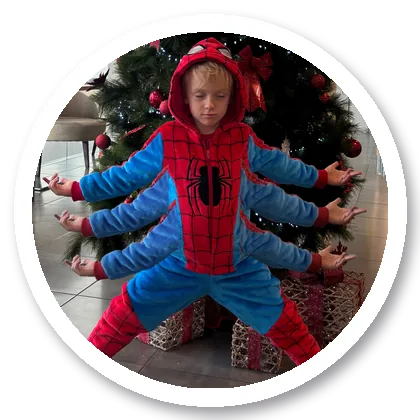
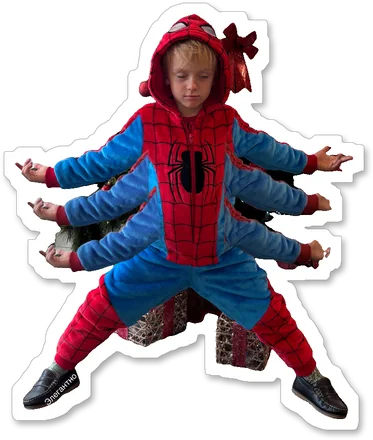
Стикеры как в Telegram: вырезаны по контуру с белой обводкой, 25 штук
Claude-Session: https://claude.ai/code/session_01BQN7vp1YMynbd4keLDUdRK

diff --git a/config.js b/config.js
@@ -11,23 +11,36 @@ window.GAME = {
 
   // Стикеры (вырезаны из фото, лежат в photos/stickers)
   stickers: {
-    coffee:  { img: "photos/stickers/coffee.webp",  cap: "без кофе не разговариваю ☕" },
-    serious: { img: "photos/stickers/serious.webp", cap: "когда спросили, что на ужин" },
-    aaa:     { img: "photos/stickers/aaa.webp",     cap: "АААА 😱" },
-    cat:     { img: "photos/stickers/cat.webp",     cap: "кот не одобряет 😾" },
-    monday:  { img: "photos/stickers/monday.webp",  cap: "понедельник 😩" },
-    ski:     { img: "photos/stickers/ski.webp",     cap: "снежная королева ❄" },
-    dino:    { img: "photos/stickers/dino.webp",    cap: "жую 🦖" },
-    fox:     { img: "photos/stickers/fox.webp",     cap: "лис-разбойник 🦊" },
-    spider:  { img: "photos/stickers/spider.webp",  cap: "элегантно 🕷" },
-    hug:     { img: "photos/stickers/hug.webp",     cap: "обнимашки 🤗" },
-    art:     { img: "photos/stickers/art.webp",     cap: "искусствовед 🖼" },
-    turbo:   { img: "photos/stickers/turbo.webp",   cap: "турбо-режим ⚡" },
+    coffee:       { img: "photos/stickers/coffee.webp",       cap: "без кофе не разговариваю ☕" },
+    serious:      { img: "photos/stickers/serious.webp",      cap: "когда спросили, что на ужин" },
+    sideeye:      { img: "photos/stickers/sideeye.webp",      cap: "мама подозревает 👀" },
+    paci:         { img: "photos/stickers/paci.webp",         cap: "соска-режим 🍼" },
+    aaa:          { img: "photos/stickers/aaa.webp",          cap: "АААА 😱" },
+    cat:          { img: "photos/stickers/cat.webp",          cap: "кот не одобряет 😾" },
+    wow:          { img: "photos/stickers/wow.webp",          cap: "ЧТО?! 😮" },
+    what:         { img: "photos/stickers/what.webp",         cap: "чё надо? 🤨" },
+    monday:       { img: "photos/stickers/monday.webp",       cap: "понедельник 😩" },
+    ski:          { img: "photos/stickers/ski.webp",          cap: "снежная королева ❄" },
+    cheeks:       { img: "photos/stickers/cheeks.webp",       cap: "щёчки 😴" },
+    notimpressed: { img: "photos/stickers/notimpressed.webp", cap: "не впечатлена 😒" },
+    dino:         { img: "photos/stickers/dino.webp",         cap: "жую 🦖" },
+    fox:          { img: "photos/stickers/fox.webp",          cap: "лис-разбойник 🦊" },
+    fist:         { img: "photos/stickers/fist.webp",         cap: "вкусный кулачок 👊" },
+    spa:          { img: "photos/stickers/spa.webp",          cap: "SPA-день 🧖" },
+    spider:       { img: "photos/stickers/spider.webp",       cap: "элегантно 🕷" },
+    spidey:       { img: "photos/stickers/spidey.webp",       cap: "дружелюбный сосед 🕸" },
+    siblings:     { img: "photos/stickers/siblings.webp",     cap: "братик и сестрёнка 💞" },
+    run:          { img: "photos/stickers/run.webp",          cap: "погнали! ⚽" },
+    art:          { img: "photos/stickers/art.webp",          cap: "искусствовед 🖼" },
+    turbo:        { img: "photos/stickers/turbo.webp",        cap: "турбо-режим ⚡" },
+    witch:        { img: "photos/stickers/witch.webp",        cap: "ведьма и Белоснежка 🧙♀" },
+    halloween:    { img: "photos/stickers/halloween.webp",    cap: "хэллоуин-банда 🎃" },
+    grumpy2:      { img: "photos/stickers/grumpy2.webp",      cap: "два недовольных 😐" },
   },
   // стикеры, которые выскакивают сбоку в викторине
   reactions: {
-    right: ["aaa", "ski", "hug", "spider", "turbo"],
-    wrong: ["cat", "monday", "serious"],
+    right: ["aaa", "wow", "ski", "spider", "siblings", "run", "cheeks"],
+    wrong: ["cat", "monday", "serious", "what", "notimpressed", "grumpy2", "sideeye"],
   },
 
   // мем-подписи
@@ -63,7 +76,7 @@ window.GAME = {
       zoom: { x: 50, y: 50, scale: 6 },
       hint: "Кофе ☕",
       sticker: "coffee",
-      stickers: ["coffee", "serious"],
+      stickers: ["coffee", "serious", "sideeye", "paci"],
       achievement: "Кофейный детектив ☕",
       foundTitle: "Первый тайник найден!",
       foundText: "Разминка пройдена. А теперь проверим, насколько хорошо ты знаешь нас…",
@@ -114,7 +127,7 @@ window.GAME = {
         },
       ],
       achievement: "Знаток нас 🧠",
-      stickers: ["aaa", "cat"],
+      stickers: ["aaa", "cat", "wow", "what"],
       foundTitle: "Ты знаешь нас на 100%!",
       foundText: "Следующий уровень: проверим, насколько хорошо ты знаешь свою семью в лицо 👀",
       reward: 8,
@@ -156,7 +169,7 @@ window.GAME = {
         },
       ],
       achievement: "Глаз-алмаз 👁",
-      stickers: ["monday", "ski"],
+      stickers: ["monday", "ski", "cheeks", "notimpressed"],
       foundTitle: "Глаз-алмаз!",
       foundText: "Всех узнала. Награда — подсказка к первому подарку 🎁",
       reward: 4,
@@ -175,7 +188,7 @@ window.GAME = {
       zoom: { x: 50, y: 50, scale: 6 },
       hint: "Шкаф Данилы 👕",
       sticker: "fox",
-      stickers: ["dino", "fox"],
+      stickers: ["dino", "fox", "fist", "spa"],
       achievement: "Шкафолог 👕",
       foundTitle: "🎁 Подарок №1 найден!",
       foundText: "Открывай! А потом возвращайся — квест ещё не закончен.",
@@ -193,8 +206,8 @@ window.GAME = {
         "Он ниже меня ростом, носит шлем как настоящий гонщик и рисует лучше всех. " +
         "Найди его и скажи пароль: «Я тебя люблю!»",
       hint: "Это Данила 😊",
-      sticker: "spider",
-      stickers: ["spider", "hug"],
+      sticker: "spidey",
+      stickers: ["spider", "spidey", "siblings", "run"],
       achievement: "Мама года 🎨",
       foundTitle: "🎨 Подарок №2 — от Данилы!",
       foundText: "Он рисовал это специально для тебя. Обними художника покрепче!",
@@ -215,8 +228,8 @@ window.GAME = {
       photo: "photos/places/krovat.jpg",
       zoom: { x: 50, y: 50, scale: 6 },
       hint: "Кровать 🛏",
-      sticker: "turbo",
-      stickers: ["art", "turbo"],
+      sticker: "witch",
+      stickers: ["art", "turbo", "witch", "halloween", "grumpy2"],
       achievement: "Легенда квеста 👑",
       foundTitle: "🎁 Главный подарок!",
       foundText: "Ты прошла весь квест. Открывай, а потом листай вниз…",

diff --git a/index.html b/index.html
@@ -155,15 +155,15 @@
   #confetti{position:fixed;inset:0;pointer-events:none;z-index:49}
   /* stickers */
   .stk{position:relative;display:inline-flex;flex-direction:column;align-items:center}
-  .stk img{width:100%;display:block}
-  .stk .cap{margin-top:-14px;background:var(--ink);color:#fff;font:800 11px/1.25 Unbounded,sans-serif;padding:5px 9px;border-radius:12px;text-align:center;transform:rotate(-3deg);position:relative;z-index:1;max-width:112%}
+  .stk img{width:100%;aspect-ratio:1/1;object-fit:contain;display:block}
+  .stk .cap{margin-top:-6px;background:var(--ink);color:#fff;font:800 11px/1.25 Unbounded,sans-serif;padding:5px 9px;border-radius:12px;text-align:center;transform:rotate(-3deg);position:relative;z-index:1;max-width:112%}
   .stgrid .cap{font-size:9.5px;padding:4px 7px}
   .titlerow{position:relative;padding-right:100px;min-height:96px}
   .peel .cap{display:none}
   .peel{position:absolute;right:-4px;top:-4px;width:92px;z-index:3;animation:bob 3s ease-in-out infinite;--rot:9deg}
-  .newst{display:flex;justify-content:center;gap:14px;margin:6px 0 4px}
-  .newst .stk{width:136px;animation:slap .6s cubic-bezier(.3,1.6,.5,1) both}
-  .newst .stk:nth-child(2){animation-delay:.3s}
+  .newst{display:flex;flex-wrap:wrap;justify-content:center;gap:12px 10px;margin:6px 0 4px}
+  .newst .stk{width:124px;animation:slap .6s cubic-bezier(.3,1.6,.5,1) both}
+  .newst .stk:nth-child(2){animation-delay:.25s} .newst .stk:nth-child(3){animation-delay:.5s} .newst .stk:nth-child(4){animation-delay:.75s} .newst .stk:nth-child(5){animation-delay:1s}
   @keyframes slap{0%{transform:scale(2.4) rotate(-30deg);opacity:0}100%{transform:scale(1) rotate(var(--rot,-6deg));opacity:1}}
   .stgrid{display:grid;grid-template-columns:repeat(3,minmax(0,1fr));gap:10px 8px}
   .stgrid .stk{width:100%}
@@ -406,7 +406,7 @@
 
   function renderIntro(st){
     app.innerHTML='<div class="screen">'+
-      '<div class="stickers"><div class="st ph" style="left:-2%;top:-6px;--rot:-12deg">'+stkImg("coffee")+'</div><div class="st" style="right:0;top:6px;--rot:8deg;background:var(--lime)">это база</div>'+
+      '<div class="stickers"><div class="st ph" style="left:-2%;top:-6px;--rot:-12deg">'+stkImg("paci")+'</div><div class="st" style="right:0;top:6px;--rot:8deg;background:var(--lime)">это база</div>'+
       '<div class="st ph" style="right:-2%;top:140px;--rot:10deg;animation-delay:.5s">'+stkImg("spider")+'</div><div class="st" style="left:0;top:160px;--rot:-7deg;background:var(--lav);animation-delay:.8s">slay 💅</div></div>'+
       '<div class="big35">'+G.age+'</div>'+
       '<h1 class="center">'+titleHTML(st.title)+'</h1>'+
@@ -489,7 +489,7 @@
       '<span class="meme">'+esc(pick(G.memes.success))+'</span>'+
       '<h1 class="center">'+titleHTML(st.foundTitle)+'</h1>'+
       '<p class="center">'+esc(st.foundText)+'</p>'+
-      (S.newSt&&S.newSt.length?'<div class="center"><span class="chip">+'+S.newSt.length+' СТИКЕРА В КОЛЛЕКЦИЮ 🧩</span></div><div class="newst">'+S.newSt.map(function(k,i){return stkHTML(k,"--rot:"+(i?7:-6)+"deg");}).join("")+'</div>':"")+
+      (S.newSt&&S.newSt.length?'<div class="center"><span class="chip">+'+S.newSt.length+' СТИКЕРОВ В КОЛЛЕКЦИЮ 🧩</span></div><div class="newst">'+S.newSt.map(function(k,i){return stkHTML(k,"--rot:"+(i%2?7:-6)+"deg");}).join("")+'</div>':"")+
       (st.foundPhoto?'<div class="pol polone"><img src="'+esc(st.foundPhoto)+'" alt=""><div>'+esc(st.foundPhotoCaption||"")+'</div></div>':"")+
       (to>S.newFrom?'<div class="card"><span class="label">+'+(to-S.newFrom)+' ПРИЧИН ❤</span><ul class="reasons">'+reasonsHTML(S.newFrom,to,false,S.newFrom)+'</ul></div>':"")+
       '<button class="btn lime" id="nextBtn">Дальше →</button></div>';

diff --git a/preview/karina35.html b/preview/karina35.html
@@ -150,15 +150,15 @@
   #confetti{position:fixed;inset:0;pointer-events:none;z-index:49}
   /* stickers */
   .stk{position:relative;display:inline-flex;flex-direction:column;align-items:center}
-  .stk img{width:100%;display:block}
-  .stk .cap{margin-top:-14px;background:var(--ink);color:#fff;font:800 11px/1.25 Unbounded,sans-serif;padding:5px 9px;border-radius:12px;text-align:center;transform:rotate(-3deg);position:relative;z-index:1;max-width:112%}
+  .stk img{width:100%;aspect-ratio:1/1;object-fit:contain;display:block}
+  .stk .cap{margin-top:-6px;background:var(--ink);color:#fff;font:800 11px/1.25 Unbounded,sans-serif;padding:5px 9px;border-radius:12px;text-align:center;transform:rotate(-3deg);position:relative;z-index:1;max-width:112%}
   .stgrid .cap{font-size:9.5px;padding:4px 7px}
   .titlerow{position:relative;padding-right:100px;min-height:96px}
   .peel .cap{display:none}
   .peel{position:absolute;right:-4px;top:-4px;width:92px;z-index:3;animation:bob 3s ease-in-out infinite;--rot:9deg}
-  .newst{display:flex;justify-content:center;gap:14px;margin:6px 0 4px}
-  .newst .stk{width:136px;animation:slap .6s cubic-bezier(.3,1.6,.5,1) both}
-  .newst .stk:nth-child(2){animation-delay:.3s}
+  .newst{display:flex;flex-wrap:wrap;justify-content:center;gap:12px 10px;margin:6px 0 4px}
+  .newst .stk{width:124px;animation:slap .6s cubic-bezier(.3,1.6,.5,1) both}
+  .newst .stk:nth-child(2){animation-delay:.25s} .newst .stk:nth-child(3){animation-delay:.5s} .newst .stk:nth-child(4){animation-delay:.75s} .newst .stk:nth-child(5){animation-delay:1s}
   @keyframes slap{0%{transform:scale(2.4) rotate(-30deg);opacity:0}100%{transform:scale(1) rotate(var(--rot,-6deg));opacity:1}}
   .stgrid{display:grid;grid-template-columns:repeat(3,minmax(0,1fr));gap:10px 8px}
   .stgrid .stk{width:100%}
@@ -399,7 +399,7 @@
 
   function renderIntro(st){
     app.innerHTML='<div class="screen">'+
-      '<div class="stickers"><div class="st ph" style="left:-2%;top:-6px;--rot:-12deg">'+stkImg("coffee")+'</div><div class="st" style="right:0;top:6px;--rot:8deg;background:var(--lime)">это база</div>'+
+      '<div class="stickers"><div class="st ph" style="left:-2%;top:-6px;--rot:-12deg">'+stkImg("paci")+'</div><div class="st" style="right:0;top:6px;--rot:8deg;background:var(--lime)">это база</div>'+
       '<div class="st ph" style="right:-2%;top:140px;--rot:10deg;animation-delay:.5s">'+stkImg("spider")+'</div><div class="st" style="left:0;top:160px;--rot:-7deg;background:var(--lav);animation-delay:.8s">slay 💅</div></div>'+
       '<div class="big35">'+G.age+'</div>'+
       '<h1 class="center">'+titleHTML(st.title)+'</h1>'+
@@ -482,7 +482,7 @@
       '<span class="meme">'+esc(pick(G.memes.success))+'</span>'+
       '<h1 class="center">'+titleHTML(st.foundTitle)+'</h1>'+
       '<p class="center">'+esc(st.foundText)+'</p>'+
-      (S.newSt&&S.newSt.length?'<div class="center"><span class="chip">+'+S.newSt.length+' СТИКЕРА В КОЛЛЕКЦИЮ 🧩</span></div><div class="newst">'+S.newSt.map(function(k,i){return stkHTML(k,"--rot:"+(i?7:-6)+"deg");}).join("")+'</div>':"")+
+      (S.newSt&&S.newSt.length?'<div class="center"><span class="chip">+'+S.newSt.length+' СТИКЕРОВ В КОЛЛЕКЦИЮ 🧩</span></div><div class="newst">'+S.newSt.map(function(k,i){return stkHTML(k,"--rot:"+(i%2?7:-6)+"deg");}).join("")+'</div>':"")+
       (st.foundPhoto?'<div class="pol polone"><img src="'+esc(st.foundPhoto)+'" alt=""><div>'+esc(st.foundPhotoCaption||"")+'</div></div>':"")+
       (to>S.newFrom?'<div class="card"><span class="label">+'+(to-S.newFrom)+' ПРИЧИН ❤</span><ul class="reasons">'+reasonsHTML(S.newFrom,to,false,S.newFrom)+'</ul></div>':"")+
       '<button class="btn lime" id="nextBtn">Дальше →</button></div>';

diff --git a/tools/make_stickers.py b/tools/make_stickers.py
@@ -1,0 +1,63 @@
+# Вырезает стикеры по контуру (как в Telegram): убирает фон, белая обводка, тень.
+import sys, numpy as np
+from PIL import Image, ImageOps, ImageFilter
+from rembg import remove, new_session
+U='/root/.claude/uploads/3d47777e-b0e0-5bd1-af17-7bffe31784fd/'
+OUT='photos/stickers/'
+# имя: (файл, кроп x0,y0,x1,y1 в долях, поворот)
+S={
+ 'fox':('f5e2ae61',(0.22,0.16,0.62,0.86),0), 'serious':('05254c48',(0,0,1,1),0),
+ 'aaa':('b93bfc1d',(0.12,0.2,0.9,0.86),0), 'cat':('18d85c8b',(0,0,0.92,1),0),
+ 'monday':('8272b98b',(0.05,0.08,0.95,0.86),0), 'ski':('0018ad21',(0.33,0.43,0.92,1),0),
+ 'dino':('193e9dc5',(0.48,0.15,0.9,1),0), 'spider':('20b29270',(0.04,0.25,0.97,0.9),0),
+ 'art':('d7b6df69',(0.32,0.38,0.54,0.93),0),
+ 'turbo':('cb0718cf',(0.25,0.05,0.75,1),0), 'coffee':('dea8381c',(0.25,0,1,1),0),
+ 'paci':('c725867c',(0.1,0.42,1,1),0), 'witch':('5e2bb790',(0.53,0.27,0.95,0.8),0),
+ 'halloween':('dcec17d6',(0.2,0.27,1,0.95),0), 'sideeye':('89691334',(0,0.15,1,0.75),0),
+ 'spidey':('f61b3004',(0.27,0.2,0.95,1),0), 'wow':('343958ea',(0.08,0.05,0.97,0.55),0),
+ 'fist':('c1d75927',(0.28,0.3,0.75,0.72),0), 'spa':('1f7be6af',(0.1,0.08,0.95,0.7),0),
+ 'siblings':('009acf0e',(0.05,0,0.9,1),-90), 'run':('fefe45ce',(0.03,0.5,0.45,0.9),0),
+ 'what':('05f62578',(0,0.05,1,0.7),0), 'grumpy2':('f9f356a0',(0,0,1,1),0),
+ 'cheeks':('862751e1',(0.3,0.15,0.95,1),0), 'notimpressed':('4d616d9a',(0.52,0.38,1,0.92),0),
+}
+only=sys.argv[1:] or list(S)
+sess=new_session('isnet-general-use')
+for name in only:
+    f,(a,b,c,d),rot=S[name]
+    im=ImageOps.exif_transpose(Image.open(U+f+'-image.jpg')).convert('RGB')
+    w,h=im.size; im=im.crop((int(a*w),int(b*h),int(c*w),int(d*h)))
+    if rot: im=im.rotate(rot,expand=True)
+    im.thumbnail((900,900))
+    mask=remove(im,session=sess,post_process_mask=True,only_mask=True)
+    # оставляем только крупные куски (без мусора)
+    from scipy import ndimage
+    mb=np.array(mask)>110; lab,n=ndimage.label(mb)
+    if n>1:
+        sizes=ndimage.sum(mb,lab,range(1,n+1)); keep=[i+1 for i,v in enumerate(sizes) if v>=0.06*sizes.max()]
+        mk=np.array(mask); mk[~np.isin(lab,keep)]=0; mask=Image.fromarray(mk)
+    cut=im.convert('RGBA'); cut.putalpha(mask)
+    al=np.array(cut.split()[3]).astype(np.float32)/255
+    # обрезаем по содержимому + поле под обводку
+    ys,xs=np.where(al>0.5); 
+    if len(xs)==0: print('EMPTY',name); continue
+    pad=40
+    box=(max(0,xs.min()-pad),max(0,ys.min()-pad),min(cut.width,xs.max()+pad),min(cut.height,ys.max()+pad))
+    cut=cut.crop(box); 
+    W,H=cut.width+2*pad,cut.height+2*pad
+    canvas=Image.new('RGBA',(W,H),(0,0,0,0)); canvas.paste(cut,(pad,pad),cut)
+    # заливаем дырки внутри силуэта (рот, глаза)
+    from PIL import ImageDraw
+    m=canvas.split()[3].point(lambda v:255 if v>110 else 0)
+    ImageDraw.floodfill(m,(0,0),128)
+    holes=m.point(lambda v:255 if v==0 else 0)
+    al=canvas.split()[3]; al.paste(255,(0,0),holes); canvas.putalpha(al)
+    A=canvas.split()[3].point(lambda v:255 if v>110 else 0)
+    stroke=max(8,int(max(W,H)*0.025))|1
+    outline=A.filter(ImageFilter.MaxFilter(stroke)).filter(ImageFilter.MaxFilter(stroke)).filter(ImageFilter.GaussianBlur(1.2)).point(lambda v:255 if v>100 else 0).filter(ImageFilter.GaussianBlur(0.8))
+    shadow=outline.filter(ImageFilter.GaussianBlur(6)).point(lambda v:int(v*0.35))
+    out=Image.new('RGBA',(W,H),(0,0,0,0))
+    sh=Image.new('RGBA',(W,H),(22,17,26,255)); out.paste(sh,(5,7),shadow)
+    wt=Image.new('RGBA',(W,H),(255,255,255,255)); out.paste(wt,(0,0),outline)
+    out.alpha_composite(canvas)
+    bb=out.getbbox(); out=out.crop(bb); out.thumbnail((440,440),Image.LANCZOS)
+    out.save(OUT+name+'.webp',quality=84,method=6); print(name,out.size)
